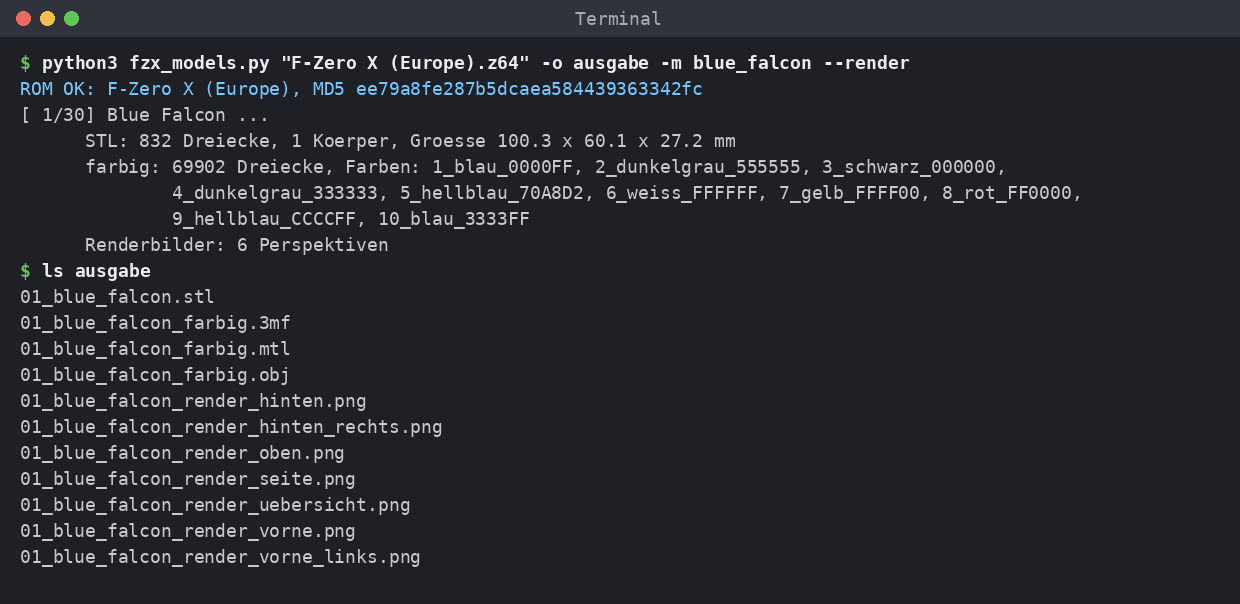
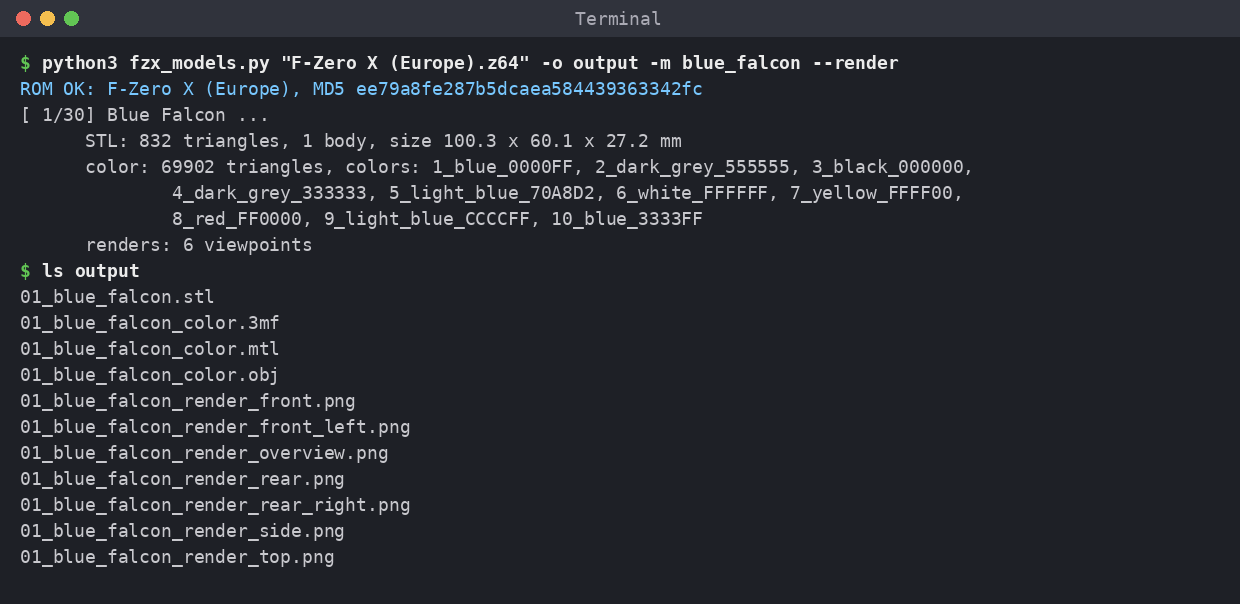
English script output and file names, update screenshot
- all messages, --help texts and errors in English
- file names: *_color.3mf/.obj/.mtl, *_render_<view>.png, 00_overview.png
- view names: front_left, rear_right, side, top, front, rear
- default output directory: fzerox_models

Claude-Session: https://claude.ai/code/session_01N9QPiw6H7kXYwuFNAgncod

diff --git a/fzx_models.py b/fzx_models.py
@@ -1,41 +1,42 @@
 #!/usr/bin/env python3
 """
-F-ZeroX-3MF  -  F-Zero X (N64, Europa/PAL) -> 3D-druckbare Fahrzeugmodelle
-==========================================================================
+F-ZeroX-3MF  -  F-Zero X (N64, Europe/PAL) -> 3D-printable vehicle models
+=========================================================================
 
-Liest die Fahrzeuggeometrie (hoechste Detailstufe) und die Decal-Texturen direkt
-aus deiner eigenen ROM und erzeugt pro Fahrzeug:
+Reads the vehicle geometry (highest level of detail) and the decal textures
+directly from your own ROM and creates for each vehicle:
 
-  <nr>_<name>.stl              geschlossener, wasserdichter Volumenkoerper
-                               (Original-Polygone, glatte Flaechen)
-  <nr>_<name>_farbig.3mf       dasselbe Modell, Flaechen entlang der Farbgrenzen
-                               der Texturen aufgeteilt; Farben als Filament-
-                               Bemalung (OrcaSlicer, Anycubic Slicer Next,
-                               Bambu Studio)
-  <nr>_<name>_farbig.obj/.mtl  dasselbe als OBJ mit Materialfarben
-  --render: Renderbilder aus mehreren Perspektiven + Gesamtuebersicht
+  <nr>_<name>.stl             closed, watertight solid
+                              (original polygons, flat faces)
+  <nr>_<name>_color.3mf       the same model, faces split along the color
+                              borders of the textures; colors stored as
+                              filament painting (OrcaSlicer, Anycubic Slicer
+                              Next, Bambu Studio)
+  <nr>_<name>_color.obj/.mtl  the same as OBJ with material colors
+  --render: renders from several viewpoints + overall overview
 
-Benoetigt die EUROPAEISCHE ROM (PAL), .z64 (.v64/.n64 werden automatisch
-umgewandelt). Das Skript prueft die MD5-Summe der .z64-Daten:
+Requires the EUROPEAN ROM (PAL), .z64 (.v64/.n64 are converted
+automatically). The script verifies the MD5 checksum of the .z64 data:
   ee79a8fe287b5dcaea584439363342fc
 
-Nutzung:
-  python3 fzx_models.py "F-Zero X (Europe).z64" -o ausgabe
-  python3 fzx_models.py ROM -o ausgabe --render
-  python3 fzx_models.py ROM -o ausgabe -m blue_falcon -m golden_fox
-  python3 fzx_models.py ROM --list
+Usage:
+  python3 fzx_models.py "F-Zero X (Europe).z64" -o output
+  python3 fzx_models.py ROM -o output --render
+  python3 fzx_models.py ROM -o output -m blue_falcon -m golden_fox
+  python3 fzx_models.py --list
   python3 fzx_models.py --help
 
-Abhaengigkeiten:  pip install numpy trimesh manifold3d triangle pillow
+Dependencies:  pip install -r requirements.txt
+               (numpy scipy trimesh rtree manifold3d triangle pillow)
 
-Das Skript enthaelt KEINE Spieldaten (keine Geometrie, keine Texturen, keine
-Farben). Es enthaelt nur Adressen und Indizes, die beschreiben, wo die Daten in
-der ROM liegen und wie die Display-Listen sie verknuepfen. Diese Angaben sind
-aus dem oeffentlichen, unter CC0 stehenden Decompilation-Projekt
-https://github.com/inspectredc/fzerox abgeleitet.
+This script contains NO game data (no geometry, no textures, no colors). It
+only contains addresses and indices that describe where the data is located in
+the ROM and how the display lists connect it. This information is derived from
+the public decompilation project https://github.com/inspectredc/fzerox, which
+is released under CC0.
 
-Lizenz: MIT (siehe LICENSE). F-Zero ist eine Marke von Nintendo; dieses Projekt
-steht in keiner Verbindung zu Nintendo.
+License: MIT (see LICENSE). F-Zero is a trademark of Nintendo; this project is
+not affiliated with Nintendo.
 """
 import argparse, base64, hashlib, json, os, struct, sys, uuid, zipfile, zlib
 import numpy as np
@@ -189,9 +190,9 @@ def load_rom(path):
         d = np.frombuffer(d, '<u4').astype('>u4').tobytes()
     md5 = hashlib.md5(d).hexdigest()
     if md5 != PAL_MD5:
-        sys.exit(f'Falsche ROM: MD5 {md5}\n'
-                 f'Benoetigt wird F-Zero X (Europe, PAL) mit MD5 {PAL_MD5} (Format .z64).\n'
-                 'Die US- und die japanische Version werden nicht unterstuetzt.')
+        sys.exit(f'Wrong ROM: MD5 {md5}\n'
+                 f'Required: F-Zero X (Europe, PAL) with MD5 {PAL_MD5} (.z64 format).\n'
+                 'The US and Japanese versions are not supported.')
     print(f'ROM OK: F-Zero X (Europe), MD5 {md5}')
     return d
 
@@ -561,7 +562,7 @@ def classify_and_cap(m, key, wid, WF, good, log=print):
             new_faces.append((c, col))
             cap_ids.append(len(m.faces) + len(new_faces) - 1)
         solids.append(list(fs) + cap_ids)
-        log(f'      {len(caps)} Loch-Dreiecke geschlossen')
+        log(f'      closed a hole with {len(caps)} triangle(s)')
     for a, b in twin.items():
         if a < b:
             plates.append((a, b))
@@ -808,7 +809,7 @@ def build(model, mm_per_unit, thick, res, merge_de, max_colors, colored=True, lo
                                             tri_verts=np.array(np.asarray(cm.tri_verts), dtype=np.uint64, order='C').reshape(-1, 3),
                                             face_id=np.full(len(np.asarray(cm.tri_verts)), lab, np.uint64)))
                 extra.append(cap)
-                log(f'      Steg zu losem Teil ({c.volume():.0f} mm3, Abstand {dist[k]:.2f} mm)')
+                log(f'      added strut to loose part ({c.volume():.0f} mm3, gap {dist[k]:.2f} mm)')
             grown = []
             for c in parts[1:]:
                 bb = np.asarray(c.bounding_box()).reshape(2, 3)
@@ -842,7 +843,7 @@ def build(model, mm_per_unit, thick, res, merge_de, max_colors, colored=True, lo
         V = V[used]; F = rm[F]
     else:
         V = V32
-        log(f'      Hinweis: {int((ec != 2).sum())} Beruehrungskanten bleiben als getrennte Kanten erhalten')
+        log(f'      note: {int((ec != 2).sum())} touching edges kept as separate edges')
     shift = np.r_[-(V[:, :2].min(0) + V[:, :2].max(0)) / 2, -V[:, 2].min()]
     V = V + shift
     info = dict(n_solids=len(solids), n_plates=len(plates), bodies=nb)
@@ -851,13 +852,13 @@ def build(model, mm_per_unit, thick, res, merge_de, max_colors, colored=True, lo
 
 # ---------------------------------------------------------------- export
 COLOR_NAMES = {
-    'schwarz': (20, 20, 20), 'dunkelgrau': (75, 75, 75), 'grau': (128, 128, 128), 'hellgrau': (190, 190, 190),
-    'weiss': (245, 245, 245), 'rot': (220, 20, 20), 'dunkelrot': (130, 15, 30), 'orange': (240, 120, 20),
-    'gelb': (250, 220, 30), 'gold': (205, 165, 50), 'oliv': (100, 100, 20), 'gruen': (20, 160, 60),
-    'dunkelgruen': (15, 70, 30), 'hellgruen': (140, 220, 40), 'petrol': (0, 110, 110), 'tuerkis': (60, 200, 210),
-    'hellblau': (120, 170, 220), 'blau': (20, 40, 230), 'marine': (15, 20, 70), 'lila': (120, 60, 190),
-    'violett': (160, 90, 230), 'magenta': (220, 40, 160), 'pink': (240, 90, 140), 'braun': (110, 70, 30),
-    'beige': (200, 180, 120), 'stahlblau': (70, 80, 150),
+    'black': (20, 20, 20), 'dark_grey': (75, 75, 75), 'grey': (128, 128, 128), 'light_grey': (190, 190, 190),
+    'white': (245, 245, 245), 'red': (220, 20, 20), 'dark_red': (130, 15, 30), 'orange': (240, 120, 20),
+    'yellow': (250, 220, 30), 'gold': (205, 165, 50), 'olive': (100, 100, 20), 'green': (20, 160, 60),
+    'dark_green': (15, 70, 30), 'light_green': (140, 220, 40), 'teal': (0, 110, 110), 'turquoise': (60, 200, 210),
+    'light_blue': (120, 170, 220), 'blue': (20, 40, 230), 'navy': (15, 20, 70), 'purple': (120, 60, 190),
+    'violet': (160, 90, 230), 'magenta': (220, 40, 160), 'pink': (240, 90, 140), 'brown': (110, 70, 30),
+    'beige': (200, 180, 120), 'steel_blue': (70, 80, 150),
 }
 
 
@@ -946,12 +947,12 @@ def write_orca_3mf(path, V, F, L, palette_hex, title, project_cfg=None):
 
 # ---------------------------------------------------------------- software renderer (numpy only)
 VIEWS = {
-    'vorne_links':  (-35, 22),   # azimuth (deg, 0 = from the front/+X), elevation
-    'hinten_rechts': (145, 25),
-    'seite':        (90, 0),
-    'oben':         (0, 89),
-    'vorne':        (0, 8),
-    'hinten':       (180, 8),
+    'front_left':  (-35, 22),   # azimuth (deg, 0 = from the front/+X), elevation
+    'rear_right':  (145, 25),
+    'side':        (90, 0),
+    'top':         (0, 89),
+    'front':       (0, 8),
+    'rear':        (180, 8),
 }
 
 
@@ -1090,29 +1091,31 @@ def render_all_views(path_stem, V, F, C, views, size, title=None):
         except OSError:
             font = ImageFont.load_default()
         ImageDraw.Draw(sheet).text((20, 14), title, fill=(40, 40, 40), font=font)
-    sheet.save(f'{path_stem}_render_uebersicht.png', optimize=True)
+    sheet.save(f'{path_stem}_render_overview.png', optimize=True)
 
 
 # ---------------------------------------------------------------- main
 def main():
-    ap = argparse.ArgumentParser(description='F-Zero X (PAL) Fahrzeuge -> druckbare STL/OBJ/3MF')
-    ap.add_argument('rom', nargs='?', help='Pfad zur europaeischen F-Zero-X-ROM (.z64/.v64/.n64)')
-    ap.add_argument('-o', '--out', default='fzerox_modelle', help='Ausgabeordner (Standard: fzerox_modelle)')
-    ap.add_argument('-m', '--machine', action='append', help='z.B. blue_falcon (mehrfach moeglich; Standard: alle)')
-    ap.add_argument('--list', action='store_true', help='verfuegbare Fahrzeuge auflisten')
-    ap.add_argument('--length', type=float, default=100.0, help='Laenge der Blue Falcon in mm (gemeinsamer Massstab, Standard 100)')
-    ap.add_argument('--thick', type=float, default=1.2, help='Dicke fuer hauchduenne Flaechen (Finnen/Fluegel) in mm')
-    ap.add_argument('--skin', type=int, default=0, choices=range(4), help='Lackierung 0-3 (0 = Standard)')
-    ap.add_argument('--smooth', type=int, default=8, help='Kantenglaettung der Decals: 1 = pixelgenau wie N64-Textur, '
-                    '2/4/8/16 = Pixel-Art-Hochskalierung (Scale2x) fuer saubere Diagonalen')
-    ap.add_argument('--max-colors', type=int, default=16, help='Obergrenze fuer die Anzahl Farben (Standard: alle)')
-    ap.add_argument('--merge', type=float, default=12.0, help='Farben mit Delta-E kleiner als dieser Wert zusammenfassen')
-    ap.add_argument('--no-color', action='store_true', help='nur STL erzeugen')
-    ap.add_argument('--render', action='store_true', help='hochaufgeloeste Renderbilder aus mehreren Perspektiven erzeugen')
-    ap.add_argument('--views', default=','.join(VIEWS), help='Perspektiven, kommagetrennt: ' + ', '.join(VIEWS))
-    ap.add_argument('--render-size', default='2400x1600', help='Bildgroesse BxH in Pixeln (Standard 2400x1600)')
-    ap.add_argument('--map', default='', help='Farben zusammenlegen, z.B. "8=5,4=3" (Farbe 8 wird zu 5, 4 zu 3; '
-                    'Nummern wie im normalen Lauf ausgegeben). Nur sinnvoll zusammen mit -m fuer ein Fahrzeug.')
+    import warnings
+    warnings.filterwarnings('ignore', category=RuntimeWarning)   # degenerate cap triangles are handled explicitly
+    ap = argparse.ArgumentParser(description='F-Zero X (Europe/PAL) vehicles -> printable STL / color 3MF / OBJ')
+    ap.add_argument('rom', nargs='?', help='path to the European F-Zero X ROM (.z64/.v64/.n64)')
+    ap.add_argument('-o', '--out', default='fzerox_models', help='output directory (default: fzerox_models)')
+    ap.add_argument('-m', '--machine', action='append', help='only this vehicle, e.g. blue_falcon (can be repeated; default: all)')
+    ap.add_argument('--list', action='store_true', help='list available vehicles')
+    ap.add_argument('--length', type=float, default=100.0, help='length of the Blue Falcon in mm; all vehicles share this scale (default 100)')
+    ap.add_argument('--thick', type=float, default=1.2, help='minimum thickness for zero-thickness surfaces (fins/wings) in mm (default 1.2)')
+    ap.add_argument('--skin', type=int, default=0, choices=range(4), help='paint scheme 0-3 (0 = default)')
+    ap.add_argument('--smooth', type=int, default=8, help='decal edge smoothing: 1 = pixel-exact like the N64 texture, '
+                    '2/4/8/16 = pixel-art upscaling (Scale2x) for clean diagonals (default 8)')
+    ap.add_argument('--max-colors', type=int, default=16, help='upper limit for the number of colors (default 16)')
+    ap.add_argument('--merge', type=float, default=12.0, help='merge colors whose CIE Delta E is below this value (default 12)')
+    ap.add_argument('--no-color', action='store_true', help='only create STL files')
+    ap.add_argument('--render', action='store_true', help='create high-resolution renders from several viewpoints')
+    ap.add_argument('--views', default=','.join(VIEWS), help='viewpoints, comma separated: ' + ', '.join(VIEWS))
+    ap.add_argument('--render-size', default='2400x1600', help='render size WxH in pixels (default 2400x1600)')
+    ap.add_argument('--map', default='', help='merge colors, e.g. "8=5,4=3" (color 8 becomes 5, 4 becomes 3; '
+                    'numbers as printed in a normal run). Only useful together with -m for one vehicle.')
     a = ap.parse_args()
     recipes = json.loads(zlib.decompress(base64.b64decode(RECIPES_B64)))
     if a.list:
@@ -1120,12 +1123,12 @@ def main():
             print(f'{i + 1:2d}  {r["slug"]:18s} {r["name"]}')
         return
     if not a.rom:
-        ap.error('Pfad zur ROM fehlt')
+        ap.error('path to the ROM is missing')
     rom = load_rom(a.rom)
     os.makedirs(a.out, exist_ok=True)
     sel = [(i, r) for i, r in enumerate(recipes) if not a.machine or r['slug'] in a.machine or str(i + 1) in a.machine]
     if not sel:
-        sys.exit('Keine passende Maschine gefunden (siehe --list).')
+        sys.exit('No matching vehicle found (see --list).')
     mmpu = a.length / 560.0
     overview = []
     for i, r in sel:
@@ -1134,7 +1137,7 @@ def main():
         model = Model(rom, r, a.skin)
         V, F, _, _, info = build(model, mmpu, a.thick, a.smooth, a.merge, a.max_colors, colored=False)
         write_stl(os.path.join(a.out, stem + '.stl'), V, F)
-        msg = f'      STL: {len(F)} Dreiecke, {info["bodies"]} Koerper, Groesse ' + ' x '.join(f'{x:.1f}' for x in V.max(0) - V.min(0)) + ' mm'
+        msg = f'      STL: {len(F)} triangles, {info["bodies"]} body, size ' + ' x '.join(f'{x:.1f}' for x in V.max(0) - V.min(0)) + ' mm'
         print(msg)
         if not a.no_color:
             V, F, L, pal, info = build(model, mmpu, a.thick, a.smooth, a.merge, a.max_colors, colored=True)
@@ -1151,10 +1154,10 @@ def main():
                 remap = -np.ones(len(pal), int); remap[used] = np.arange(len(used))
                 L = remap[L]; pal = pal[used]
             names = [f'{k + 1}_{color_name(c)}_{"%02X%02X%02X" % tuple(int(round(x * 255)) for x in c)}' for k, c in enumerate(pal)]
-            write_obj(os.path.join(a.out, stem + '_farbig.obj'), V, F, L, pal, names)
+            write_obj(os.path.join(a.out, stem + '_color.obj'), V, F, L, pal, names)
             hexes = ['#%02X%02X%02X' % tuple(int(round(x * 255)) for x in c) for c in pal]
-            write_orca_3mf(os.path.join(a.out, stem + '_farbig.3mf'), V, F, L, hexes, f'F-Zero X {r["name"]}')
-            print(f'      farbig: {len(F)} Dreiecke, Farben: ' + ', '.join(names))
+            write_orca_3mf(os.path.join(a.out, stem + '_color.3mf'), V, F, L, hexes, f'F-Zero X {r["name"]}')
+            print(f'      color: {len(F)} triangles, colors: ' + ', '.join(names))
             CF = pal[L]
         else:
             CF = np.full((len(F), 3), 0.7); hexes = []
@@ -1163,11 +1166,11 @@ def main():
             views = [v.strip() for v in a.views.split(',') if v.strip()]
             render_all_views(os.path.join(a.out, stem), V, F, CF, views, (w, h), r['name'])
             overview.append((i + 1, r['name'], os.path.join(a.out, f'{stem}_render_{views[0]}.png'), hexes))
-            print(f'      Renderbilder: {len(views)} Perspektiven')
+            print(f'      renders: {len(views)} viewpoints')
 
     if len(overview) > 1:
-        make_overview(os.path.join(a.out, '00_uebersicht.png'), overview)
-        print('Uebersicht:', os.path.join(a.out, '00_uebersicht.png'))
+        make_overview(os.path.join(a.out, '00_overview.png'), overview)
+        print('Overview:', os.path.join(a.out, '00_overview.png'))
 
 
 def make_overview(path, items, cols=5, tw=720, th=480):

diff --git a/README.md b/README.md
@@ -13,12 +13,10 @@ For each of the 30 vehicles:
 | File | Contents |
 |---|---|
 | `NN_name.stl` | Closed, watertight solid built from the original polygons (highest level of detail), single color |
-| `NN_name_farbig.3mf` | The same model with its faces split along the color borders of the textures (race numbers, lettering, stripes). Colors are stored as filament painting, which OrcaSlicer, Anycubic Slicer Next and Bambu Studio can read. |
-| `NN_name_farbig.obj` + `.mtl` | Color model as OBJ with material colors |
+| `NN_name_color.3mf` | The same model with its faces split along the color borders of the textures (race numbers, lettering, stripes). Colors are stored as filament painting, which OrcaSlicer, Anycubic Slicer Next and Bambu Studio can read. |
+| `NN_name_color.obj` + `.mtl` | Color model as OBJ with material colors |
 | `NN_name_render_*.png` | only with `--render`: renders from 6 viewpoints plus an overview image |
-| `00_uebersicht.png` | only with `--render`: all generated vehicles with their colors in one image |
-
-(*farbig* = colored, *uebersicht* = overview. The script's output and file names are in German.)
+| `00_overview.png` | only with `--render`: all generated vehicles with their colors in one image |
 
 Further properties:
 - **Scale:** All vehicles share the same scale; the Blue Falcon is 100 mm long. Change it with `--length`.
@@ -106,7 +104,7 @@ Run time: about 4 seconds per vehicle, about 30 seconds with `--render`.
 
 | Option | Meaning | Default |
 |---|---|---|
-| `-o DIR` | Output directory | `fzerox_modelle` |
+| `-o DIR` | Output directory | `fzerox_models` |
 | `-m NAME` | Only this vehicle; can be given multiple times | all |
 | `--length MM` | Length of the Blue Falcon in mm. All other vehicles are scaled by the same factor. | `100` |
 | `--thick MM` | Minimum thickness for zero-thickness surfaces | `1.2` |
@@ -117,14 +115,14 @@ Run time: about 4 seconds per vehicle, about 30 seconds with `--render`.
 | `--map "8=1,4=3"` | Merge specific colors, e.g. color 8 → 1. The numbers are shown in the output. | – |
 | `--no-color` | Only create STL files | – |
 | `--render` | Create renders | – |
-| `--views a,b,…` | Viewpoints: `vorne_links` (front left), `hinten_rechts` (rear right), `seite` (side), `oben` (top), `vorne` (front), `hinten` (rear) | all |
+| `--views a,b,…` | Viewpoints: `front_left`, `rear_right`, `side`, `top`, `front`, `rear` | all |
 | `--render-size WxH` | Render size in pixels | `2400x1600` |
 
 ## Multi-color printing
 
 1. In your slicer, first select a **multi-color printer**, for example one with an Anycubic ACE, Bambu AMS or Prusa MMU.
 2. Add **as many filaments as the vehicle has colors** and set their colors in the order listed in the script's output. The order is also shown in the overview image.
-3. **Only then** drag the `_farbig.3mf` file into the project.
+3. **Only then** drag the `_color.3mf` file into the project.
 
 If too few filaments are set up when the file is loaded, slicers of the Orca family reset the extra colors to filament 1, and the model appears single-colored. If you have fewer filament slots than colors, you can assign the same spool to several filaments or merge colors with `--map`.
 
